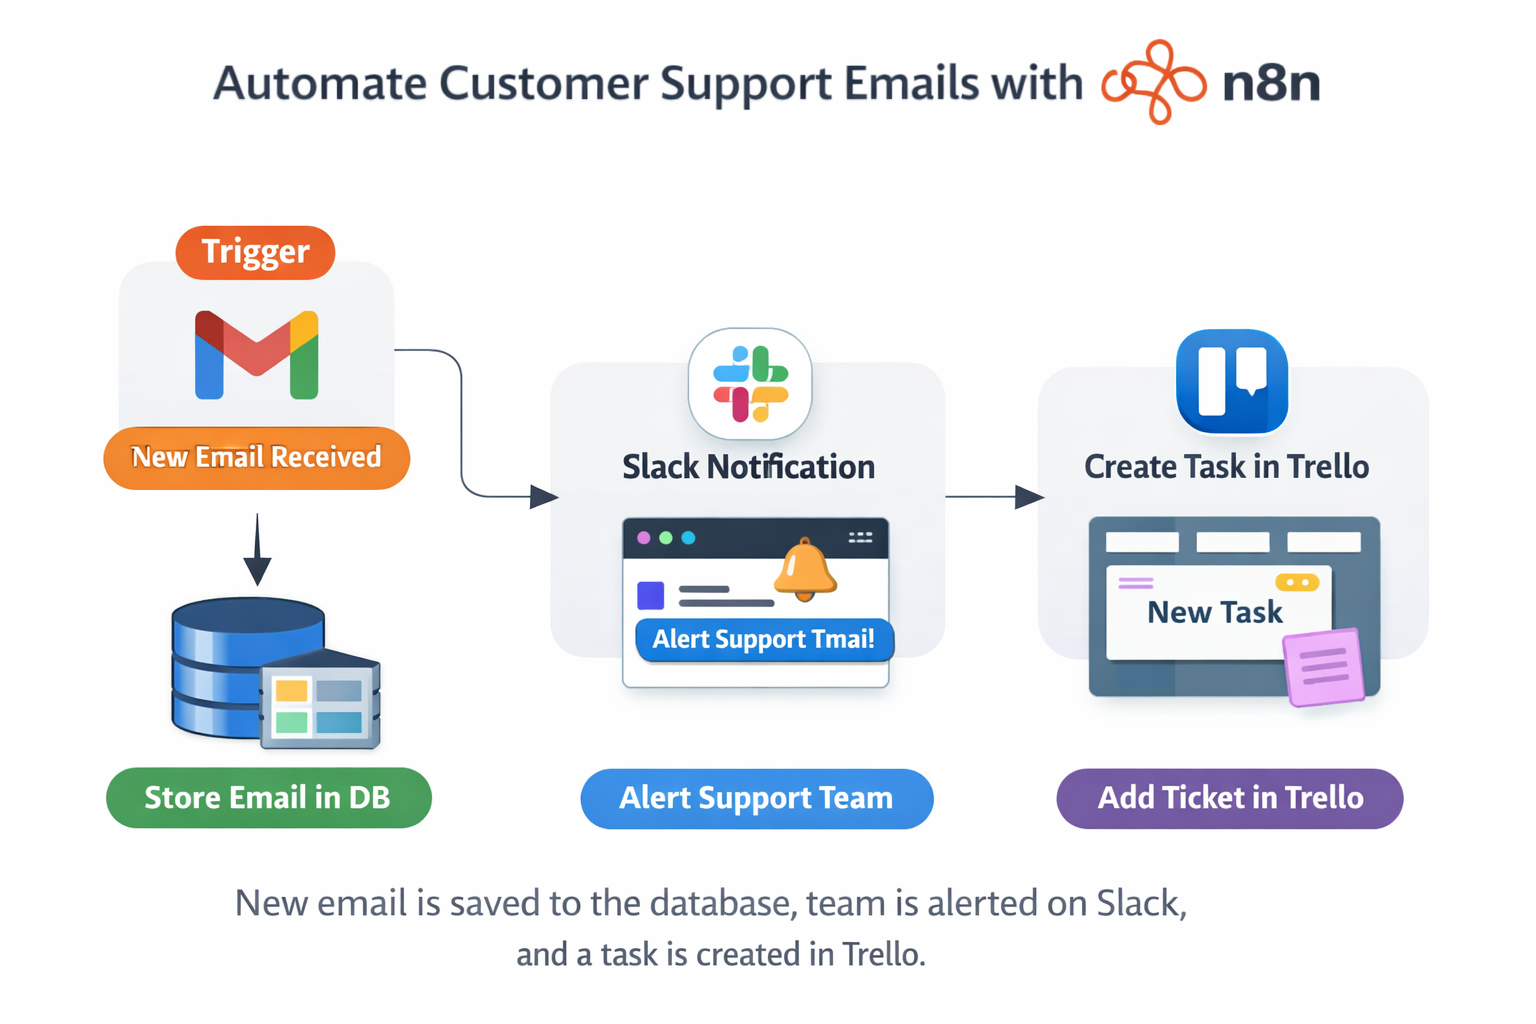
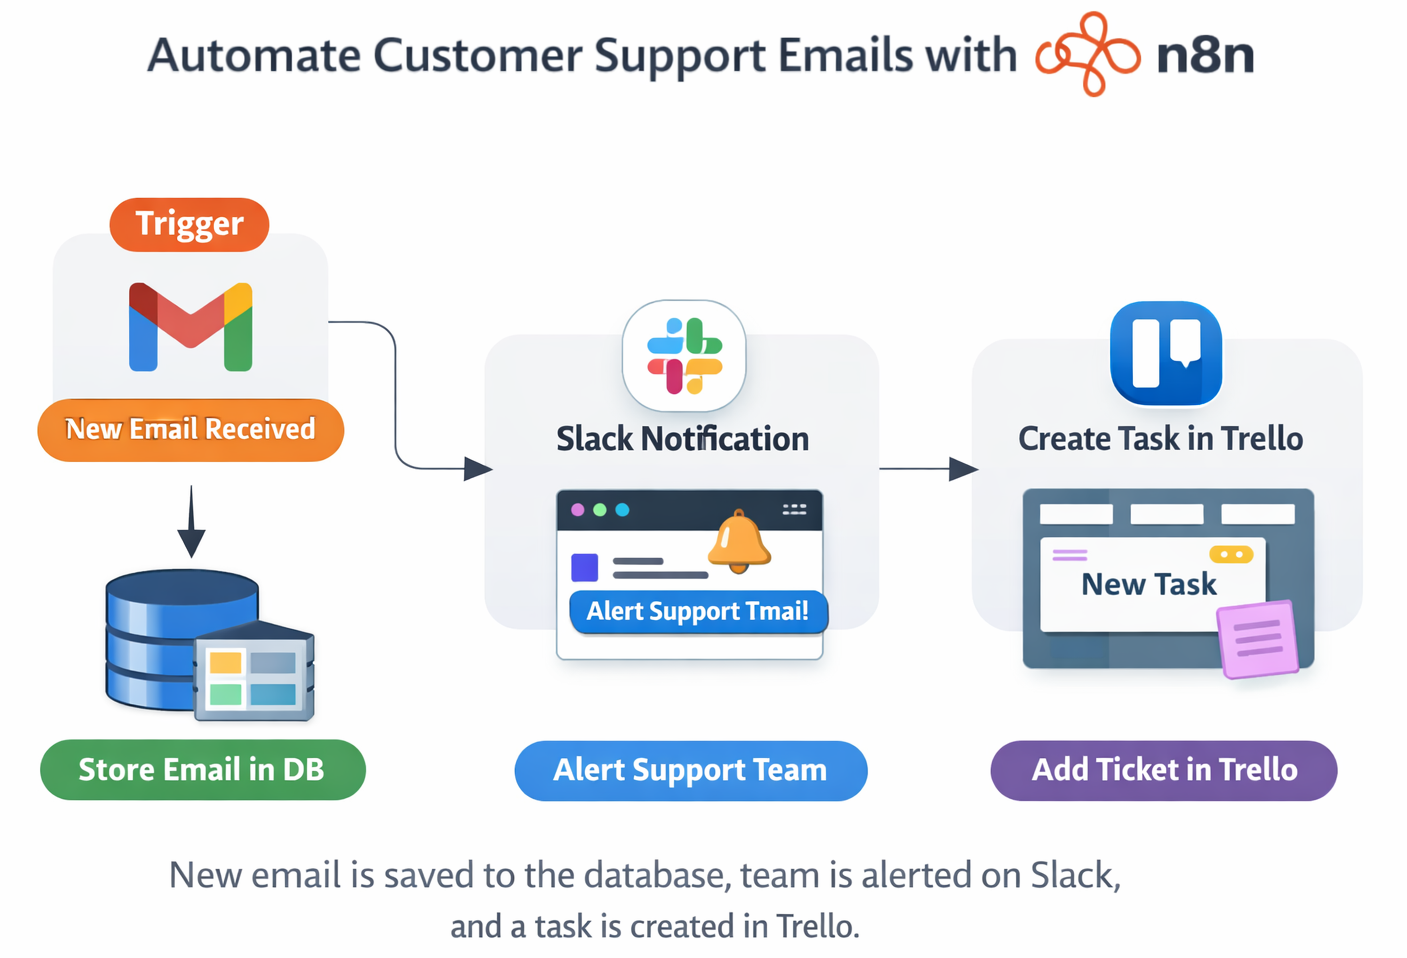
Add Customer Support Emails workflow example and associated image

diff --git a/Automation Tools/n8n Workflows/n8n Workflows.md b/Automation Tools/n8n Workflows/n8n Workflows.md
@@ -16,6 +16,8 @@ n8n is an open source workflow automation tool that lets you connect different a
 - Creating Slack notifications when a new customer signs up.
 - Generating weekly sales reports automatically.
 
+![Red](/assets/img/Img%201.png)
+
 
 ## **Key Features**
 
@@ -47,3 +49,16 @@ n8n is an open source workflow automation tool that lets you connect different a
 ## ***Trigger → Workflow → Action***
 
 
+### ***Example 1: Customer Support Emails***
+
+- Trigger: New email received in Gmail
+
+- Workflow: Extract email content
+
+- Actions:
+
+1. Save email in a database
+2. Notify the support team on Slack
+3. Create a task in Trello for follow-up
+
+![Red](/assets/img/Img%202.png)
